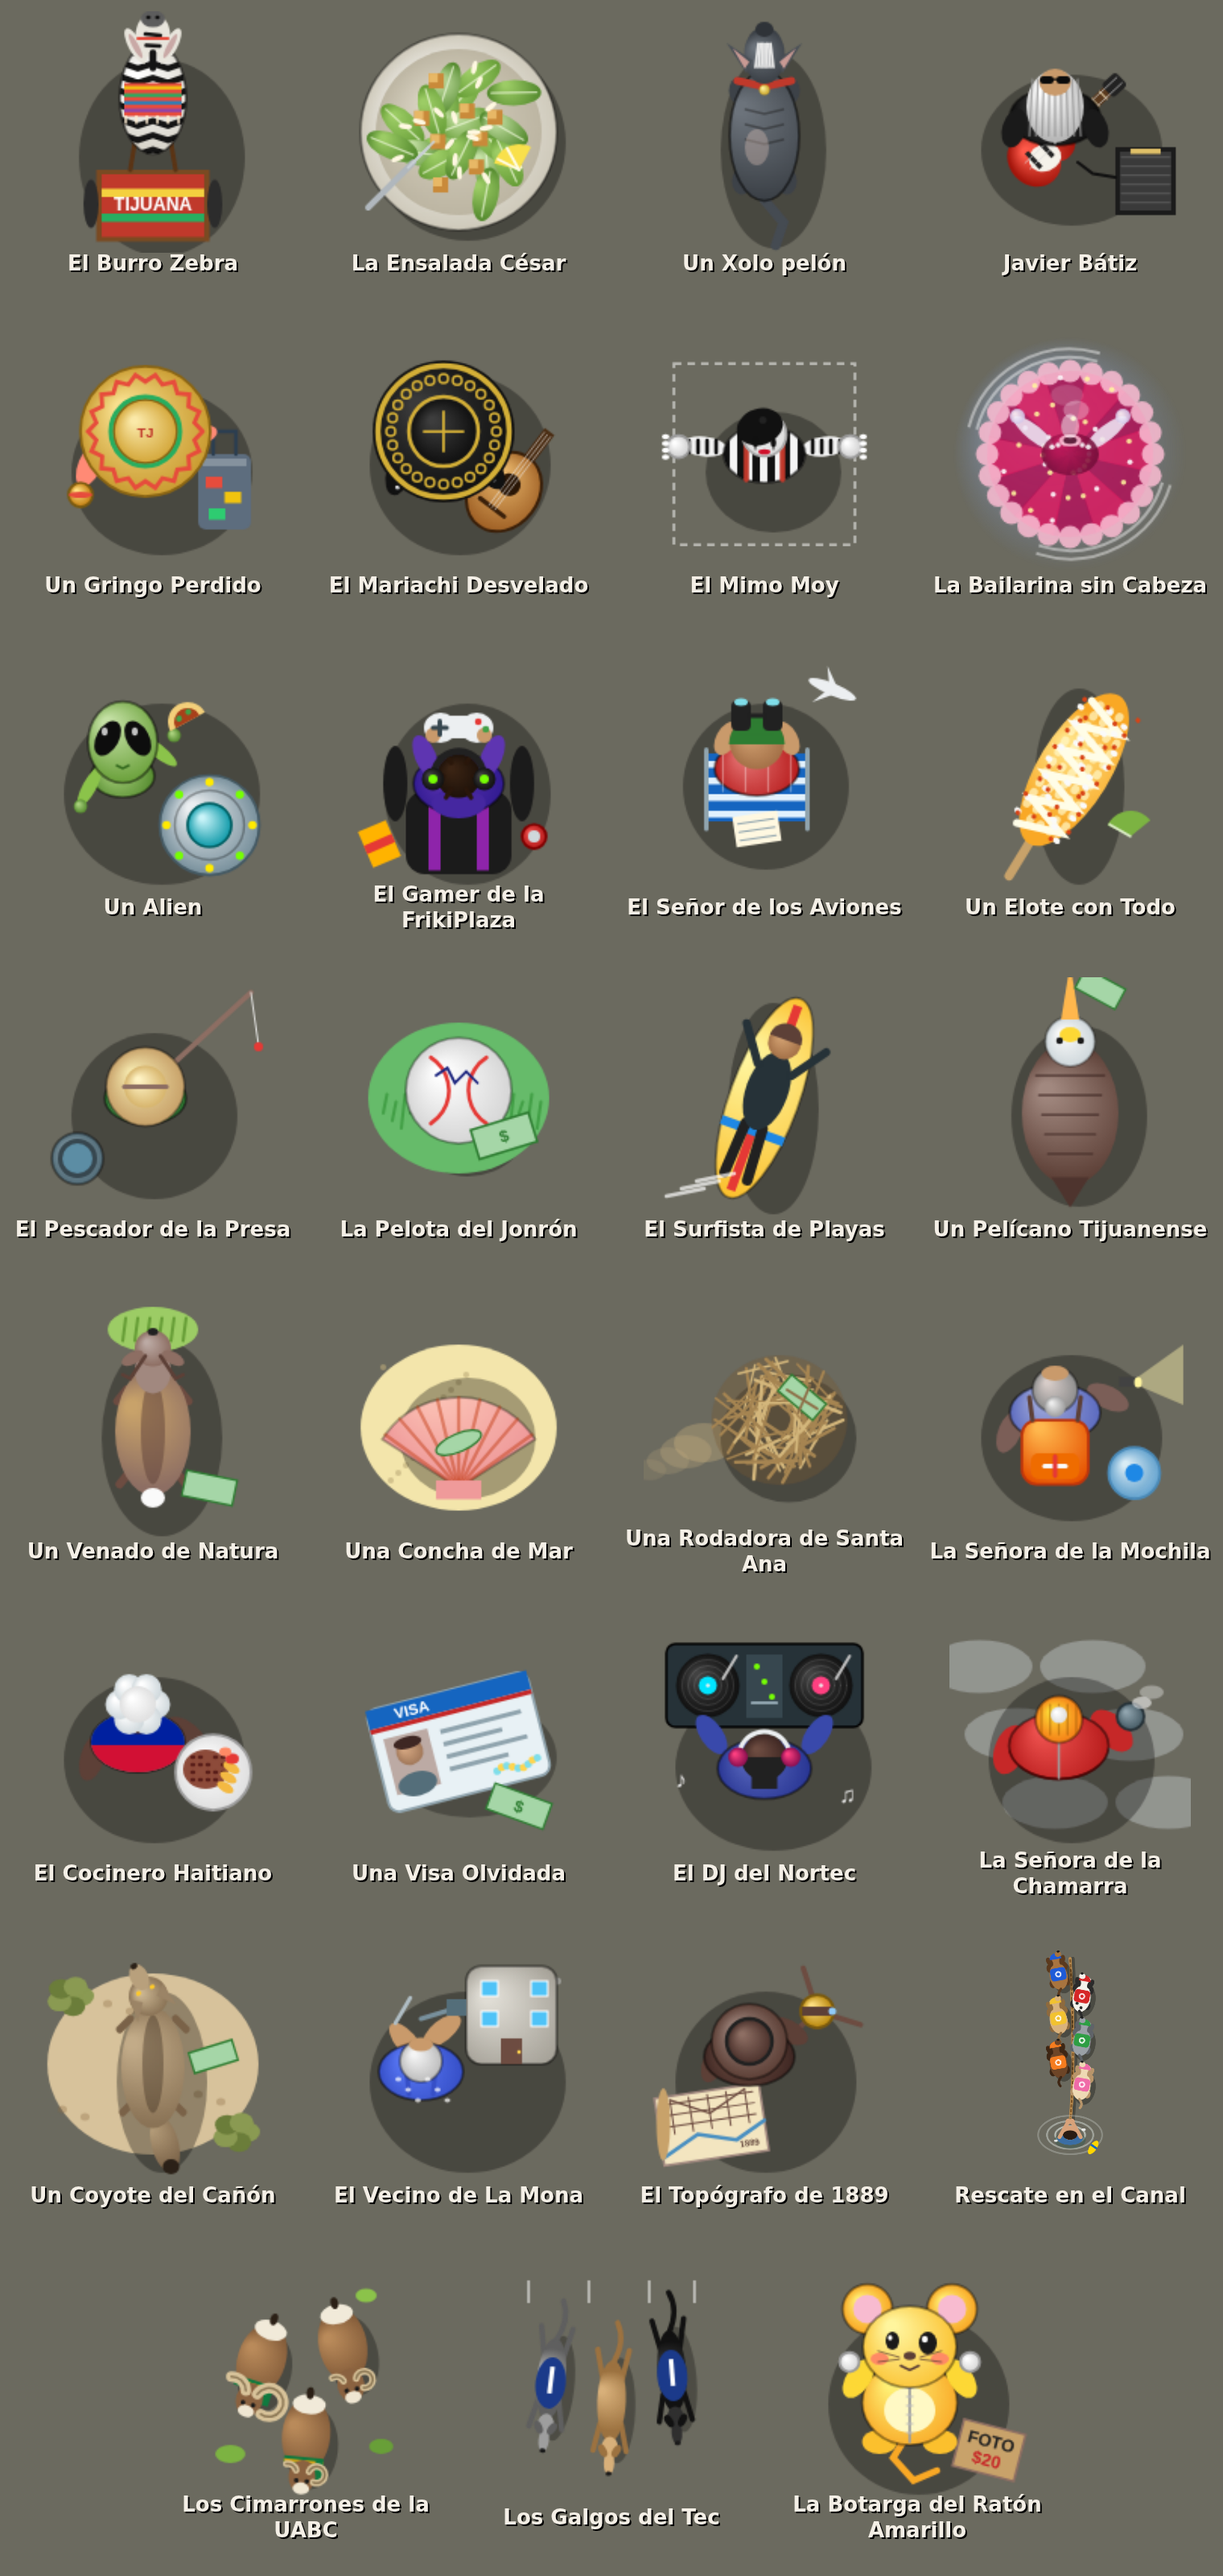
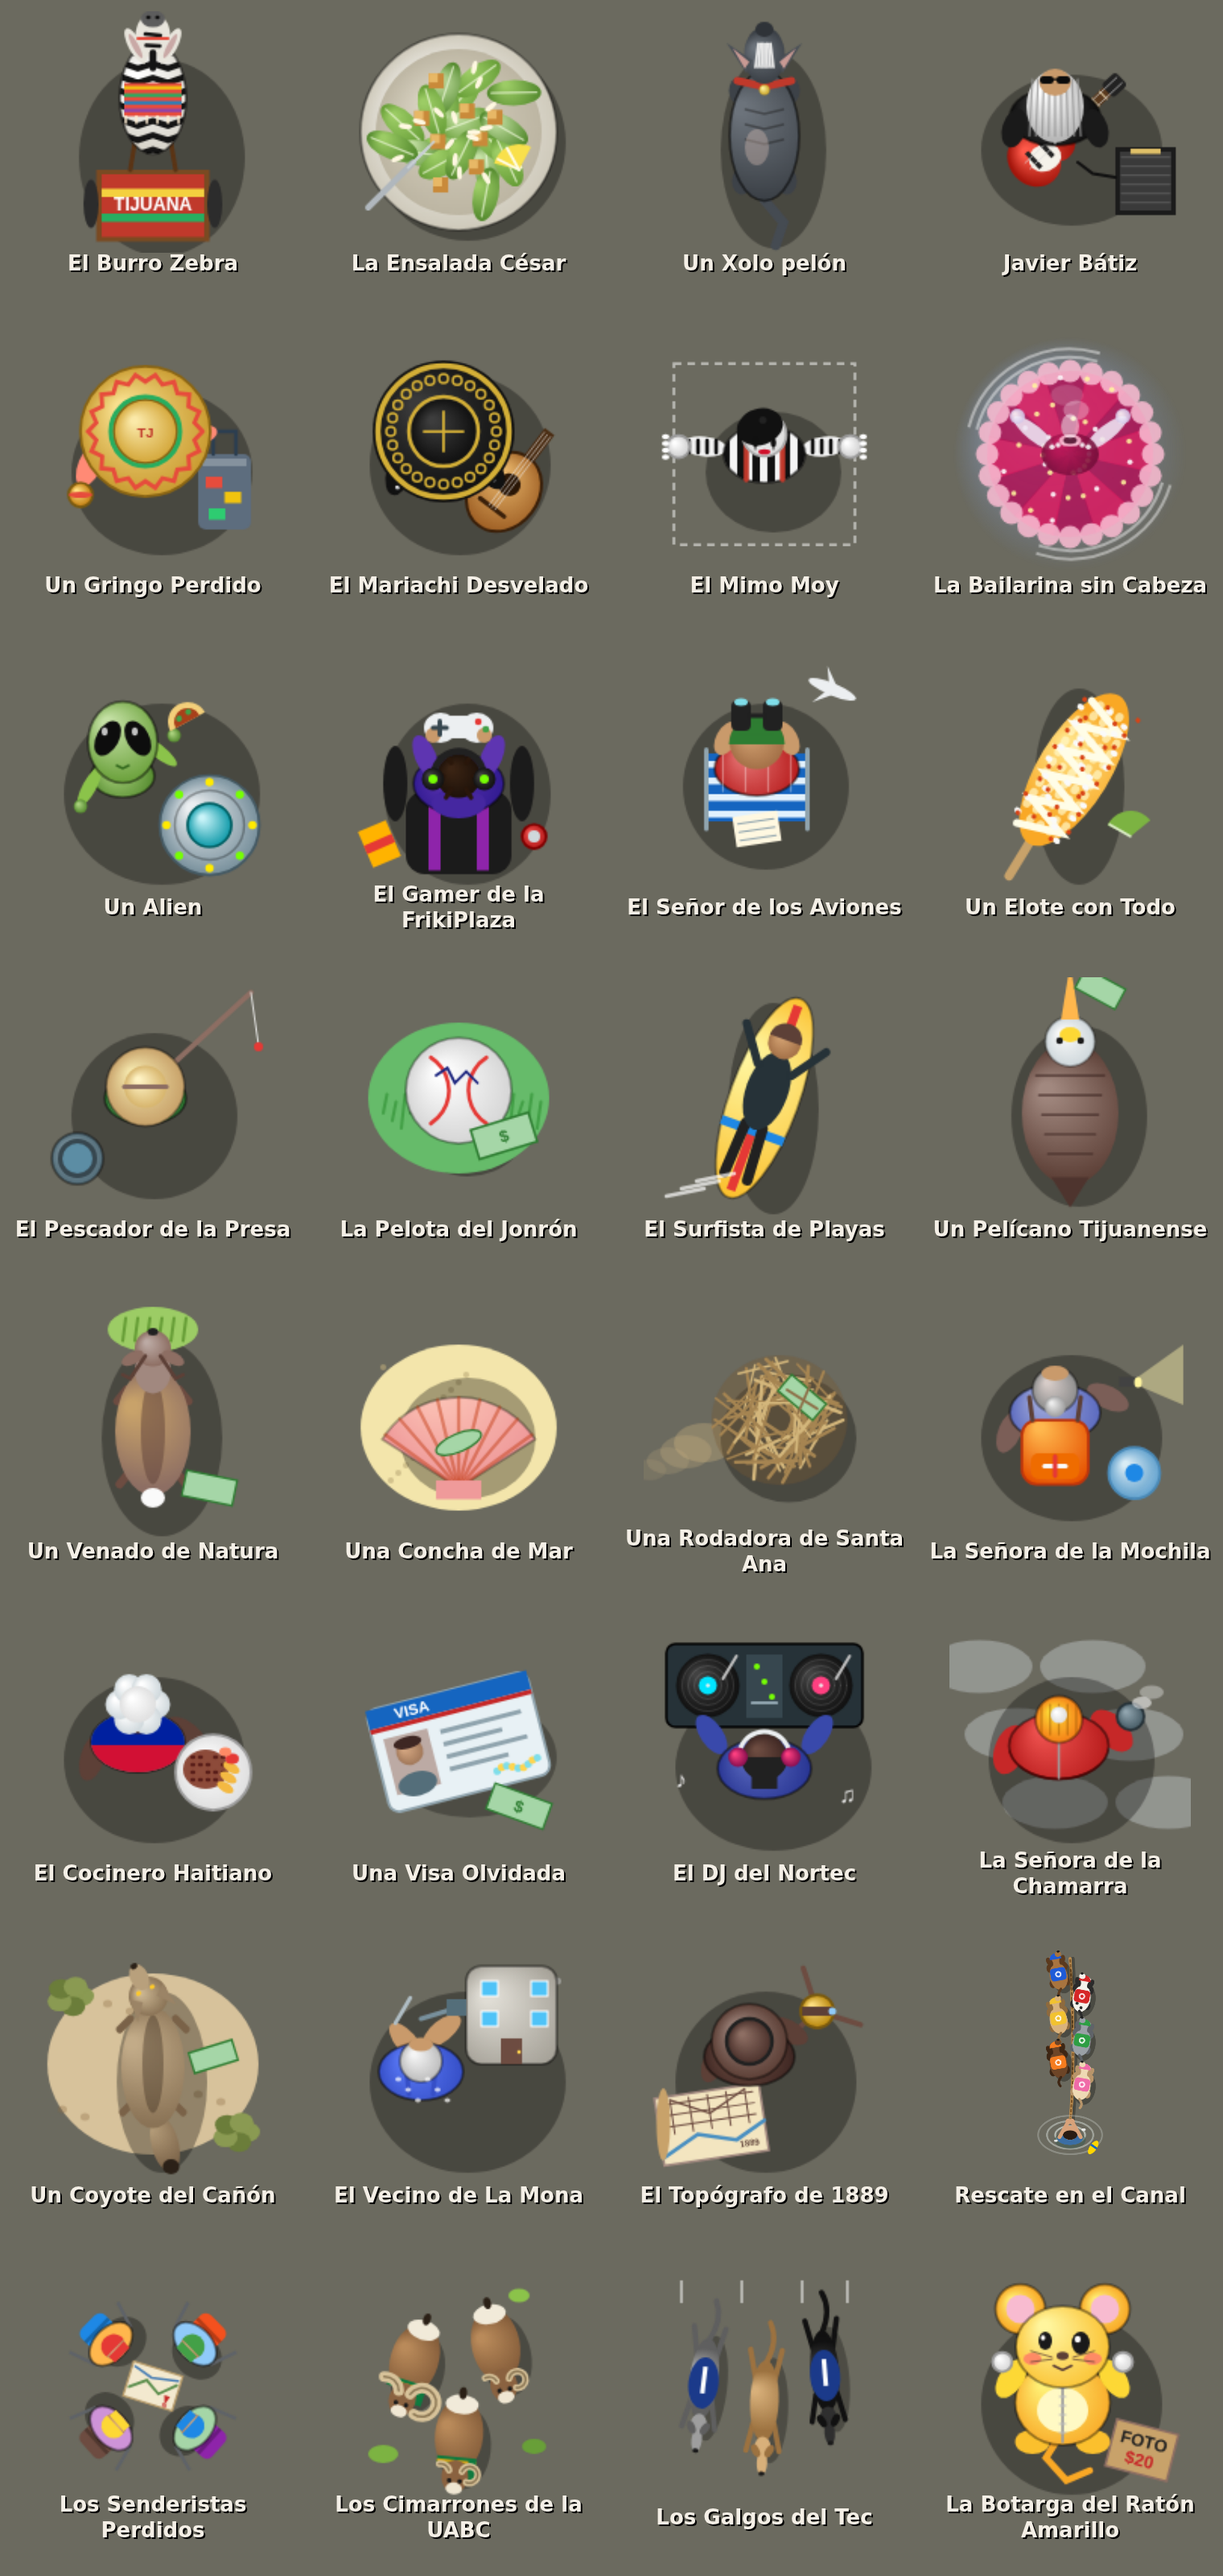
Senderistas perdidos en el Cerro Colorado, a unos pasos del mirador

Changed region(s): [[0.0618, 0.875, 0.9586, 1.0]]

diff --git a/src/game.js b/src/game.js
@@ -212,6 +212,9 @@ const EGGS = [
   // canal: va adentro del canal del rio, en la orilla mas cercana al lugar (ver lugarEnCanal)
   { k: 'cachorros', name: 'Rescate en el Canal', near: 'Plaza Río Tijuana', dx: 0, dy: 0, pay: 300, fija: true, canal: true, r: 150,
     say: '(Seis perritos con chalequito y casco de colores jalan una soga para sacar a un señor del canal del río.) El señor nomás quería sacar su chancla. Te dejaron una propina por echar porras.' },
+  // libre: va justo ahi (a media ladera), no en la banqueta de la calle mas cercana
+  { k: 'senderistas', name: 'Los Senderistas Perdidos', near: 'Mirador del Cerro Colorado', dx: -45, dy: -60, pay: 300, fija: true, libre: true, r: 70,
+    say: '(Cuatro senderistas con mochila, bastones y un mapa al revés discuten en plena ladera.) Llevan tres horas perdidos a sesenta metros del mirador, con las antenas a la vista y toda la ciudad allá abajo. Te dieron una lana para que no le cuentes a nadie.' },
   // las mascotas de las escuelas, afuera de su campus
   { k: 'cimarrones', name: 'Los Cimarrones de la UABC', near: 'UABC Campus Tijuana', dx: 55, dy: -45, pay: 300, fija: true, r: 70,
     say: '(Unos borregos cimarrones con bufanda verde y dorada pastan afuera de la UABC.) El cimarrón vive en las sierras de Baja California y es la mascota de la universidad. Estos ya van en octavo semestre. Te dejaron una lana para las copias.' },
@@ -3129,6 +3132,13 @@ const FRASES_FIJAS = {
   '¡Nomás era mi chancla, no hacía falta tanto!', '¡Gracias, perritos! ¿Aceptan croquetas o transferencia?',
   '¡Que alguien les avise que ya me puedo parar, el agua me llega a la cintura!',
   '¡Yo nomás venía a ver si estaba la marea alta!',
+  ],
+  senderistas: [
+    '¿Alguien sabe para dónde queda Tijuana? ...Ah, es todo eso de abajo.', 'Según el mapa estamos en Ensenada.',
+    'Sigan las antenas... no, esas no, las otras antenas.', 'Ya le marqué a mi mamá. Dice que nos ve desde la azotea.',
+    '¡Que nadie se separe! ...¿Y el Beto?', 'Llevamos tres horas dándole vueltas a la misma piedra.',
+    'Tranquilos, todavía nos queda media barra de granola para los cuatro.', '¿Y si le preguntamos al señor de los elotes? Está aquí nomás.',
+    'Yo digo que es por la derecha. Bueno, mi otra derecha.',
   ],
   cimarrones: [
     'Beee... digo, ¡arriba los Cimarrones!', 'Vengo de la biblioteca. Bueno, de comerme el pasto de afuera de la biblioteca.',
@@ -6283,6 +6293,28 @@ function makeEggs(scene) {
     ell(oscuro, -0.9, 6.6, 0.5, 0.9, -0.5); ell(oscuro, 0.9, 6.6, 0.5, 0.9, 0.5); // orejitas para atras
     x.restore();
   };
+  // los senderistas, en bolita alrededor del mapa: gorra, mochila de color y bastones
+  draw.senderistas = () => {
+    const uno = (cx, cy, a, gorra, mochila, playera) => {
+      x.save(); x.translate(cx, cy); x.rotate(a);
+      shadow(0, 0, 3.6, 3);
+      x.strokeStyle = '#5f6368'; x.lineWidth = 0.45; x.beginPath(); x.moveTo(-3.4, 1); x.lineTo(-4.6, -2.6); x.moveTo(3.4, 1); x.lineTo(4.6, -2.6); x.stroke(); // bastones
+      x.fillStyle = mochila; x.beginPath(); x.roundRect(-2.2, -3.6, 4.4, 3.2, 1); x.fill(); // la mochila (atras)
+      x.fillStyle = 'rgba(0,0,0,0.25)'; x.fillRect(-2.2, -2.2, 4.4, 0.5);
+      shoulders(0, 0.6, playera, playera, 3.4, 2.2);
+      ball(0, 1.2, 1.6, '#e0b48c', '#b9855c'); // cabeza
+      x.fillStyle = gorra; x.beginPath(); x.arc(0, 1.1, 1.65, Math.PI * 0.95, Math.PI * 2.05); x.fill(); x.fillRect(-1.4, 1.6, 2.8, 1.1); // gorra con visera hacia el centro
+      x.restore();
+    };
+    uno(10, 10, -0.8, '#e53935', '#1e88e5', '#ffb74d'); uno(22, 10, 0.8, '#43a047', '#f4511e', '#90caf9');
+    uno(10, 22, -2.3, '#fdd835', '#6d4c41', '#ce93d8'); uno(22, 22, 2.3, '#1e88e5', '#8e24aa', '#a5d6a7');
+    // el mapa en medio, al reves (la rosa de los vientos apuntando para abajo)
+    x.save(); x.translate(16, 16); x.rotate(0.3);
+    x.fillStyle = '#f3e9cf'; x.fillRect(-3.4, -2.4, 6.8, 4.8); x.strokeStyle = '#b89c6a'; x.lineWidth = 0.25; x.strokeRect(-3.4, -2.4, 6.8, 4.8);
+    line('#5d8f4e', 0.35, [[-3, 1], [-1, -0.5], [1, 0.8], [3, -1]]); line('#4a7fb5', 0.3, [[-3, -1.8], [-0.5, -1], [3, -1.6]]);
+    x.fillStyle = '#c62828'; x.beginPath(); x.moveTo(2.2, 1.9); x.lineTo(1.8, 0.7); x.lineTo(2.6, 0.7); x.closePath(); x.fill(); x.font = 'bold 0.9px sans-serif'; x.fillText('N', 1.85, 2.3);
+    x.restore();
+  };
   draw.cimarrones = () => {
     cimarron(10, 13, 0.3, true, true); cimarron(21, 11, -0.2, false, false); cimarron(16, 23, 0.1, false, true);
     ell('#7cb342', 6, 25, 2, 1.2); ell('#689f38', 26, 24, 1.6, 1); ell('#8bc34a', 24, 4, 1.4, 0.9); // matitas de pasto
@@ -6665,7 +6697,7 @@ class Main extends Phaser.Scene {
           continue;
         }
       }
-      const [sx, sy, rot] = sidewalkSpot(e.x, e.y, (SIDEWALK + 0.5) * M);
+      const [sx, sy, rot] = e.libre && !blocked(e.x, e.y) && !onRoad(e.x, e.y) ? [e.x, e.y, 0.4] : sidewalkSpot(e.x, e.y, (SIDEWALK + 0.5) * M);
       e.x = sx; e.y = sy;
       e.icon = this.add.image(sx, sy, 'egg_' + e.k).setScale(0.4).setRotation(rot).setDepth(7).setVisible(!e.got || e.fija);
       if (e.fija) { e.persona = { x: sx, y: sy }; this.tweens.add({ targets: e.icon, rotation: rot + 0.06, duration: 900, yoyo: true, repeat: -1, ease: 'Sine.easeInOut' }); }

diff --git a/src/style.css b/src/style.css
@@ -81,6 +81,7 @@ html, body { margin: 0; height: 100%; overflow: hidden; background: var(--bg); c
     repeating-linear-gradient(90deg, rgba(255,255,255,.09) 0 1px, transparent 1px 10px), #1f4f86; }
 /* los gatos de las azoteas: morado de noche con ojos amarillos, y muy creidos */
 .bubble.cachorros { --bg: #e8f4ff; --bd: #1e5bd8; --fg: #0d2a5c; font-weight: 700; }
+.bubble.senderistas { --bg: #fdf6e3; --bd: #6d4c41; --fg: #3e2723; font-weight: 700; }
 .bubble.cimarrones { --bg: #fff8e1; --bd: #0f7a3f; --fg: #10391f; font-weight: 700; }
 .bubble.galgos { --bg: #eef3ff; --bd: #1b3a8a; --fg: #0d1d45; font-weight: 700; }
 .bubble.perro { --bg: #fff8e7; --bd: #8a5a35; font-size: 26px; line-height: 1; padding: 6px 10px; border-radius: 50%; }

diff --git a/README.md b/README.md
@@ -51,9 +51,9 @@ T trabajar de taxista · M mapa grande (toca para marcar destino). En celular ha
 - Escenas de tráfico 💥: los cruceros donde más se choca en Tijuana (estudio Misión Cero 2015-2023, SSPCM y Bomberos): Aldrete y Negrete, Parque Baja California y Pedregal, Lázaro Cárdenas y la Vía Rápida, la Glorieta Cuauhtémoc, la Vía Rápida Poniente, Las 5 y 10, el Bulevar 2000 y la Glorieta Santa Fe. Al llegar a uno, 7 de cada 10 veces hay un choque, y no siempre el mismo: de lado, alcance, carambola de tres, esquinazo (uno se pasó el alto) o una moto tirada. Los carros tienen las intermitentes prendidas, hay vidrios en el piso, al que se dio de frente le sale humo, y los conductores discuten mientras el de tránsito los calma (a veces la patrulla todavía no llega y te piden que seas su testigo). El tráfico le da la vuelta y los carros no se pueden robar. Están en `ESCENAS` de src/game.js (cada una se pega a su calle real).
 - Sobreruedas 🛍: los mercados sobre ruedas de Tijuana en la calle donde se ponen: Zona Norte (Miguel F. Martínez), la Villa (Antonio Villareal), Playas (Paseo del Pedregal), Otay Bellas Artes, Otay Módulos (Sor Juana Inés de la Cruz), El Florido (Calle del Saucillo), La Curva (Ruta Mariano Matamoros) y la Sánchez Taboada (Cruz del Sur). En la vida real cada uno es un día o dos a la semana; aquí están siempre. Tienen puestos con lonas de colores (ropa de paca, fruta, juguetes, fierro viejo, tenis, plantas, pan y chácharas), vallas donde cruzan otras calles y gente comprando que se para a ver los puestos y te habla. La calle está cerrada a los carros (el tráfico y la flecha le dan la vuelta y tu carro no pasa de la valla) pero se camina. Están en `SOBRERUEDAS` de src/game.js.
 - La fila de las garitas 🚗: en San Ysidro y en Otay siempre hay fila para cruzar a Estados Unidos. Los carriles que llegan a la línea están llenos de carros, defensa con defensa, que no se mueven (dejan libres los cruces con otras calles). No se pueden robar: nadie suelta su lugar en la fila. De vez en cuando alguien pita o te dice algo desde su carro. Entre los carros caminan vendedores (churros, agua, cobijas, figuras de yeso y dulces) que se paran en las ventanillas, pregonan y te ofrecen lo suyo si te les acercas (`VENDEDORES`). Las garitas están en `GARITAS` y las frases en `FRASES_FILA` de src/game.js.
-- Secretos 🥚: 31 personajes y cosas típicas de Tijuana escondidos cerca de los lugares (el burro cebra, la ensalada César, Javier Bátiz, el Mimo Moy, el señor de los aviones, el pescador de la Presa, el surfista de Playas, un venado en Natura...). Al encontrarlos sueltan una frase y una lana. En las orillas hay 9 más que cuentan la historia de la ciudad: hechos recientes (el temblor de 2010, la llegada de los haitianos en 2016, la línea cerrada en 2020 y 2021), nostalgia (el Nortec, La Mona, el plano de 1889) y consejos de aquí (la Santa Ana, el mayo gris, los arroyos cuando llueve). También hay referencias que se quedan siempre en su lugar aunque ya las hayas encontrado (`fija`): en el canal del río, por Plaza Río Tijuana, seis perritos con chalequito y casco de colores saca a un señor del agua con una soga (y el señor grita cosas cuando pasas), y las mascotas de las escuelas afuera de su campus: unos borregos cimarrones con bufanda verde y dorada en la UABC y unos galgos con sudadera azul en el Tecnológico de Tijuana, que también te dicen algo al pasar. Están en `EGGS` de src/game.js.
+- Secretos 🥚: 32 personajes y cosas típicas de Tijuana escondidos cerca de los lugares (el burro cebra, la ensalada César, Javier Bátiz, el Mimo Moy, el señor de los aviones, el pescador de la Presa, el surfista de Playas, un venado en Natura...). Al encontrarlos sueltan una frase y una lana. En las orillas hay 9 más que cuentan la historia de la ciudad: hechos recientes (el temblor de 2010, la llegada de los haitianos en 2016, la línea cerrada en 2020 y 2021), nostalgia (el Nortec, La Mona, el plano de 1889) y consejos de aquí (la Santa Ana, el mayo gris, los arroyos cuando llueve). También hay referencias que se quedan siempre en su lugar aunque ya las hayas encontrado (`fija`): en el canal del río, por Plaza Río Tijuana, seis perritos con chalequito y casco de colores saca a un señor del agua con una soga (y el señor grita cosas cuando pasas), unos senderistas perdidos con su mapa al revés a media ladera del Cerro Colorado, a unos pasos del mirador, y las mascotas de las escuelas afuera de su campus: unos borregos cimarrones con bufanda verde y dorada en la UABC y unos galgos con sudadera azul en el Tecnológico de Tijuana, que también te dicen algo al pasar. Están en `EGGS` de src/game.js.
 
-  ![Los 31 secretos](docs/easter-eggs.png)
+  ![Los 32 secretos](docs/easter-eggs.png)
 
 El progreso se guarda en el navegador (en la app, también en el almacén del teléfono), junto con dónde te quedaste: al volver a abrir apareces en el mismo lugar, y si ibas manejando, en el mismo carro.
 
